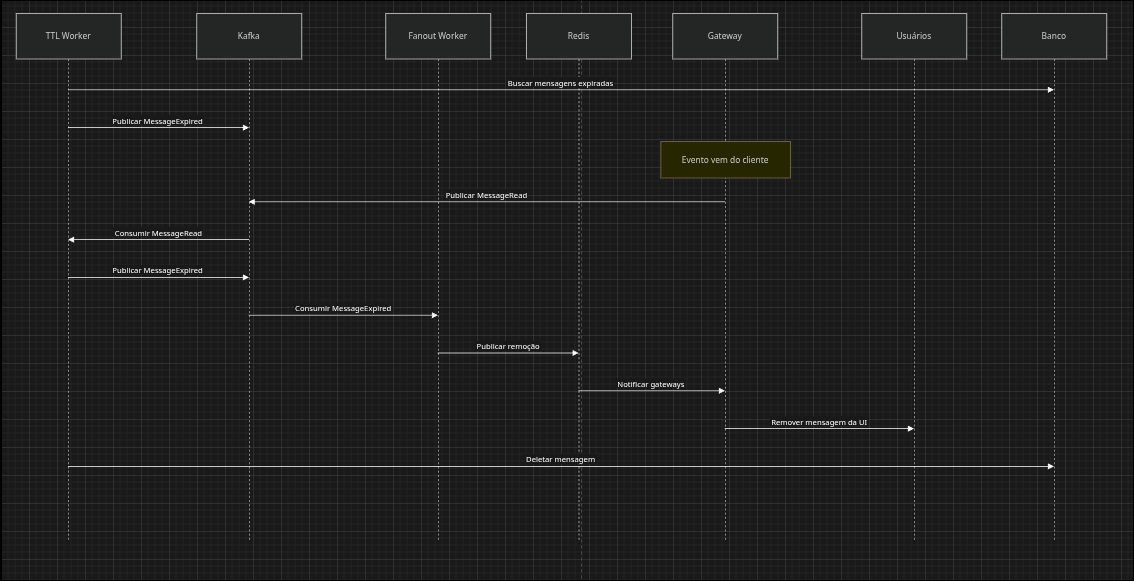
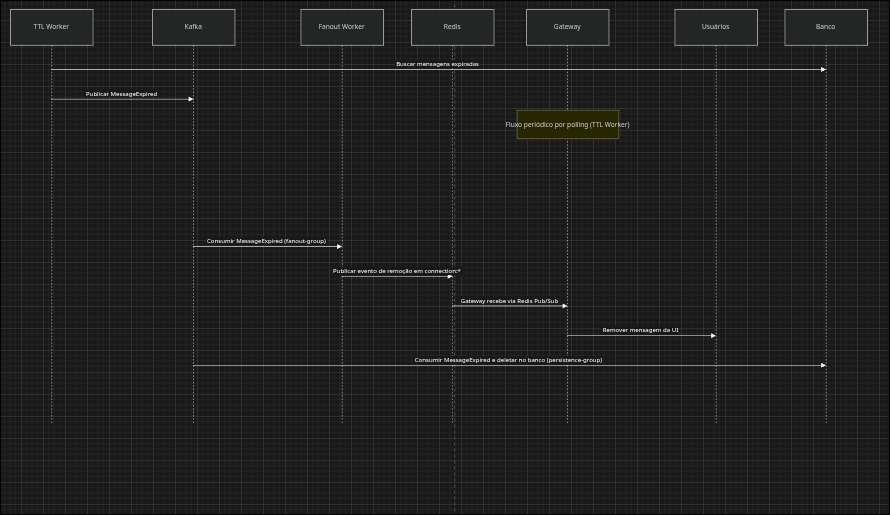
docs: att artefatos de documentação

diff --git a/docs/arquitetura/markdown/arquitetura_sistema.md b/docs/arquitetura/markdown/arquitetura_sistema.md
@@ -70,7 +70,7 @@ Funções:
 
 O gateway é **stateless**, permitindo múltiplas instâncias.
 
-Nota de Implementação: Para viabilizar a escalabilidade horizontal, o Message Fanout Worker utiliza o Redis para consultar qual instância do Realtime Gateway possui a conexão ativa do destinatário. Em seguida, entrega a mensagem diretamente àquela instância (via gRPC ou chamada interna). O Redis não atua como intermediário de entrega; apenas fornece a localização do gateway correto.
+Nota de Implementação: Para viabilizar a escalabilidade horizontal, o Message Fanout Worker resolve membros e conexões no Redis e publica os eventos em canais `connection:<connection_id>`. O Realtime Gateway com a conexão ativa consome esse canal via Redis Pub/Sub e entrega ao cliente local.
 
 ---
 
@@ -101,7 +101,7 @@ Responsabilidades:
 * suporte a alta taxa de mensagens
 * buffer de eventos para processamento assíncrono
 
-Eventos do sistema (lista completa no documento de modelo de eventos):
+Eventos do sistema (catálogo alvo; implementação atual prioriza fluxo de mensagens em `message-events`):
 
 
 `User`: 
@@ -155,14 +155,14 @@ Workers são responsáveis pelo processamento assíncrono de eventos consumidos 
 
 | Worker               | Responsabilidade                                                                                     |
 |----------------------|------------------------------------------------------------------------------------------------------|
-| **Message Fanout**   | Distribui mensagens para gateways via Redis Pub/Sub ou gRPC stream.                                  |
+| **Message Fanout**   | Consome eventos do Kafka e publica fanout em canais Redis por conexão (`connection:*`).              |
 | **Persistence**      | Persiste mensagens e eventos no Postgres (exceto quando `is_zero_logging` = true).                   |
-| **TTL**              | Remove mensagens expiradas e salas temporárias (consulta e exclusão em lote).                        |
+| **TTL**              | Varre mensagens expiradas no Postgres e publica `message.expired.v1` no Kafka.                       |
 | **Moderation**       | Processa ações de moderação (bans, mutes, kicks) e atualiza permissões.                              |
 
 Workers podem ser escalados horizontalmente.
 
-Para viabilizar a escalabilidade horizontal, o Message Fanout Worker consulta o Redis para descobrir qual instância do Realtime Gateway está atendendo o destinatário. Então entrega a mensagem diretamente a essa instância (via gRPC ou chamada interna). O Redis é usado apenas como registro de localização das conexões ativas.
+Para viabilizar a escalabilidade horizontal, o Message Fanout Worker consulta membros/conexões no Redis e publica eventos por conexão em `connection:<connection_id>`. O gateway assinante desse canal encaminha a mensagem ao cliente conectado.
 
 ---
 

diff --git a/docs/arquitetura/markdown/arquitetura_deployment.md b/docs/arquitetura/markdown/arquitetura_deployment.md
@@ -45,7 +45,7 @@ Serviço Go que mantém conexões WebSocket.
 - Stateless, escalável horizontalmente
 - Autentica via Redis
 - Publica eventos no Kafka
-- Recebe mensagens via Redis Pub/Sub
+- Recebe mensagens via Redis Pub/Sub por canal `connection:<connection_id>`
 
 ## API Service
 
@@ -57,7 +57,7 @@ Serviço Go para operações HTTP.
 ## Kafka
 
 Broker de eventos.
-- Tópicos: `user-events`, `presence-events`, `room-events`, `message-events`, `moderation-events`
+- Tópico ativo: `message-events` (outros tópicos podem ser adicionados conforme evolução dos workers)
 - Partição por `room_id` para ordenação
 
 ## Redis
@@ -69,9 +69,10 @@ Armazenamento em memória.
 ## Workers
 
 Processadores assíncronos em Go.
-- Fanout Worker: Distribui mensagens para gateways conectados. Para isso, consulta o Redis para identificar em qual gateway o destinatário está conectado e envia a mensagem diretamente para aquela instância.
+- Fanout Worker: Consome eventos do Kafka, resolve membros/conexões no Redis e publica o fanout em canais Redis `connection:*` para entrega pelo gateway local.
 - Persistence Worker: insere dados no Postgres (exceto zero logging)
-- TTL Worker: varre e remove registros expirados
+- TTL Worker: varre mensagens expiradas no Postgres e publica `message.expired.v1` no Kafka
+- Persistence Worker: também consome `message.expired.v1` e remove fisicamente as mensagens expiradas no Postgres
 - Moderation Worker: aplica bans/mutes
 
 ## Postgres
@@ -114,8 +115,10 @@ flowchart TD
 
     Kafka -->|Events| Workers
     Workers -->|Persistence| Postgres
-    Workers -->|Query gateway location| Redis
-    Workers -->|Direct gRPC call| Gateway
+    Workers -->|Resolve members/connections + Pub/Sub connection:*| Redis
+    Redis -->|Pub/Sub por conexão| Gateway
+    Workers -->|Scan TTL| Postgres
+    Workers -->|Publish message.expired.v1| Kafka
 
     Gateway -->|WSS| Client
 

diff --git a/docs/modelo/markdown/modelo_contratos.md b/docs/modelo/markdown/modelo_contratos.md
@@ -12,13 +12,13 @@
 **Endpoint:**
 
 ```
-GET /socket
+GET /socket?ticket=<ws_ticket>
 ```
 
-**Headers (futuro):**
+**Observação:**
 
 ```
-Authorization: Bearer <token>
+O ticket WebSocket é emitido pela API e deve ser usado uma única vez.
 ```
 
 ---
@@ -54,7 +54,7 @@ Authorization: Bearer <token>
 
 ```json
 {
-  "type": "message_received",
+  "type": "message.received",
   "payload": {
     "message_id": "uuid",
     "room_id": "uuid",
@@ -73,7 +73,6 @@ Authorization: Bearer <token>
 {
   "type": "message_ack",
   "payload": {
-    "temp_id": "uuid",
     "status": "received"
   }
 }
@@ -105,10 +104,10 @@ connection:{connection_id} -> Hash
 
 ## 2.2 Pub/Sub (entrada de mensagens)
 
-### Canal do Gateway
+### Canal por conexão
 
 ```
-gateway:{gateway_id}
+connection:{connection_id}
 ```
 
 ---
@@ -133,13 +132,14 @@ gateway:{gateway_id}
 
 ---
 
-# 3. Gateway ↔ Worker (MVP)
+# 3. Gateway ↔ Worker
 
-## 3.1 Chamada direta (sem Kafka - MVP)
+## 3.1 Contrato via eventos (Kafka)
 
-```go
-HandleMessageSent(event MessageSent)
-```
+O Gateway publica eventos em `message-events` e os workers consomem por grupo:
+
+- `fanout-group`
+- `persistence-group`
 
 ---
 
@@ -154,10 +154,10 @@ GET connection:{connection_id}
 
 ---
 
-## 4.2 Publicação para Gateway
+## 4.2 Publicação para conexão
 
 ```
-PUBLISH gateway:{gateway_id} <message>
+PUBLISH connection:{connection_id} <event>
 ```
 
 ---
@@ -202,7 +202,7 @@ type Connection struct {
 {
   "type": "error",
   "payload": {
-    "code": "INVALID_PAYLOAD",
+    "code": "invalid_payload",
     "message": "content is required"
   }
 }
@@ -212,7 +212,7 @@ type Connection struct {
 {
   "type": "error",
   "payload": {
-    "code": "UNAUTHORIZED",
+    "code": "unauthorized",
     "message": "invalid token"
   }
 }

diff --git a/docs/diagramas/markdown/diagramas_design.md b/docs/diagramas/markdown/diagramas_design.md
@@ -28,8 +28,12 @@ Descrição:
 
   * distribuir mensagens
   * persistir dados
-  * aplicar TTL
+  * aplicar fanout em tempo real via Redis Pub/Sub por conexão
   * executar moderação
+
+* O **TTL Worker** varre mensagens expiradas no **Postgres** e publica `message.expired.v1` em **Kafka**
+
+* O **Persistence Worker** consome `message.expired.v1` e remove fisicamente os registros expirados no banco
 
 * **Redis** é utilizado para presença, sessões e rate limiting
 

diff --git a/README.md b/README.md
@@ -150,7 +150,7 @@ make run-persistence
 ## 1. Conectar via WebSocket
 
 ```bash
-wscat -c "ws://localhost:8080/socket?user_id=<UUID>"
+wscat -c "ws://localhost:8080/socket?ticket=<WS_TICKET>"
 ```
 
 ## 2. Adicionar usuário na sala
